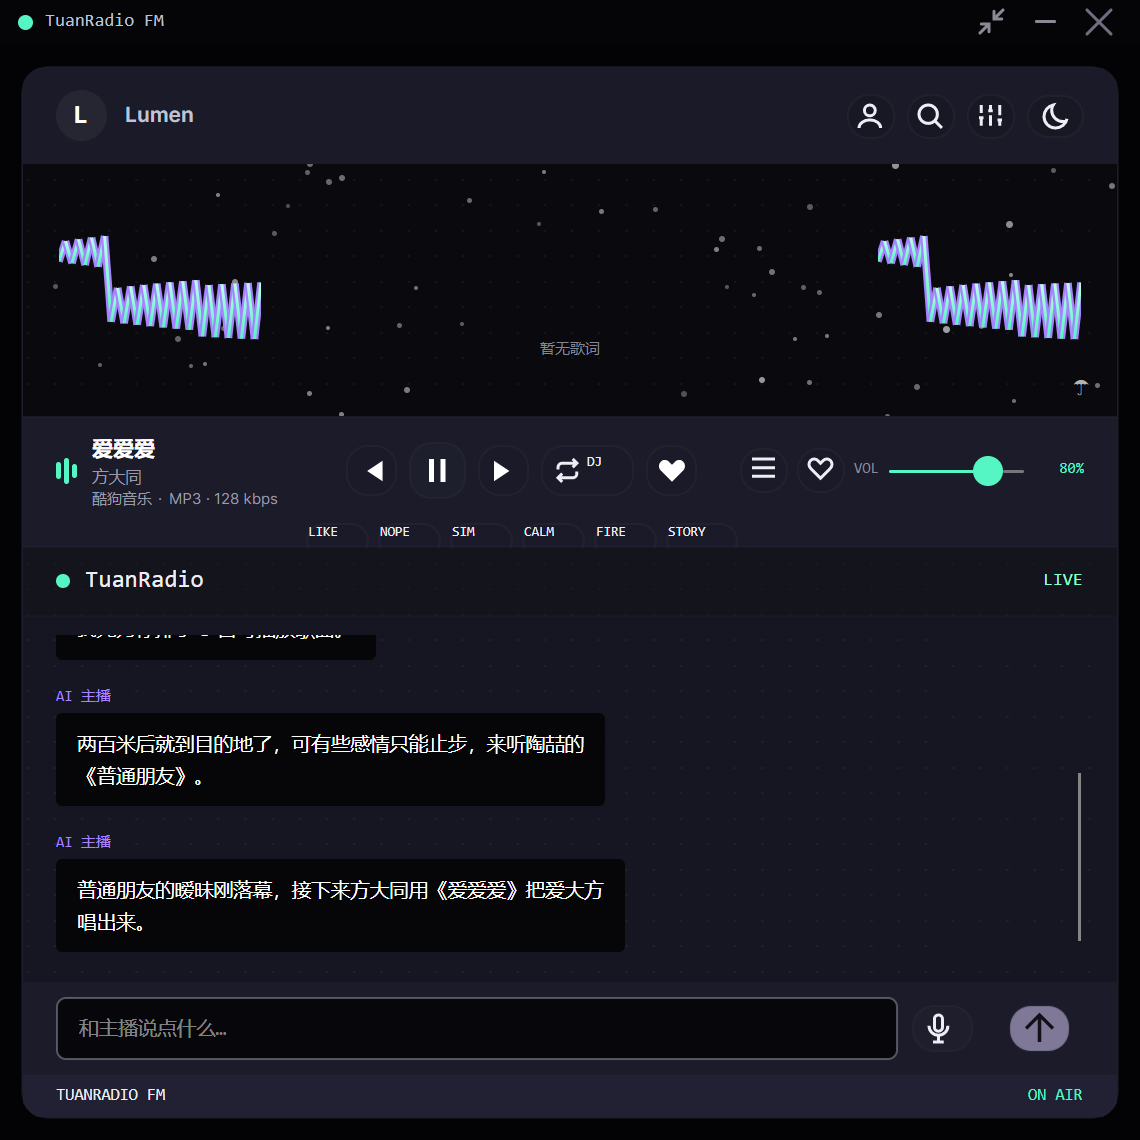
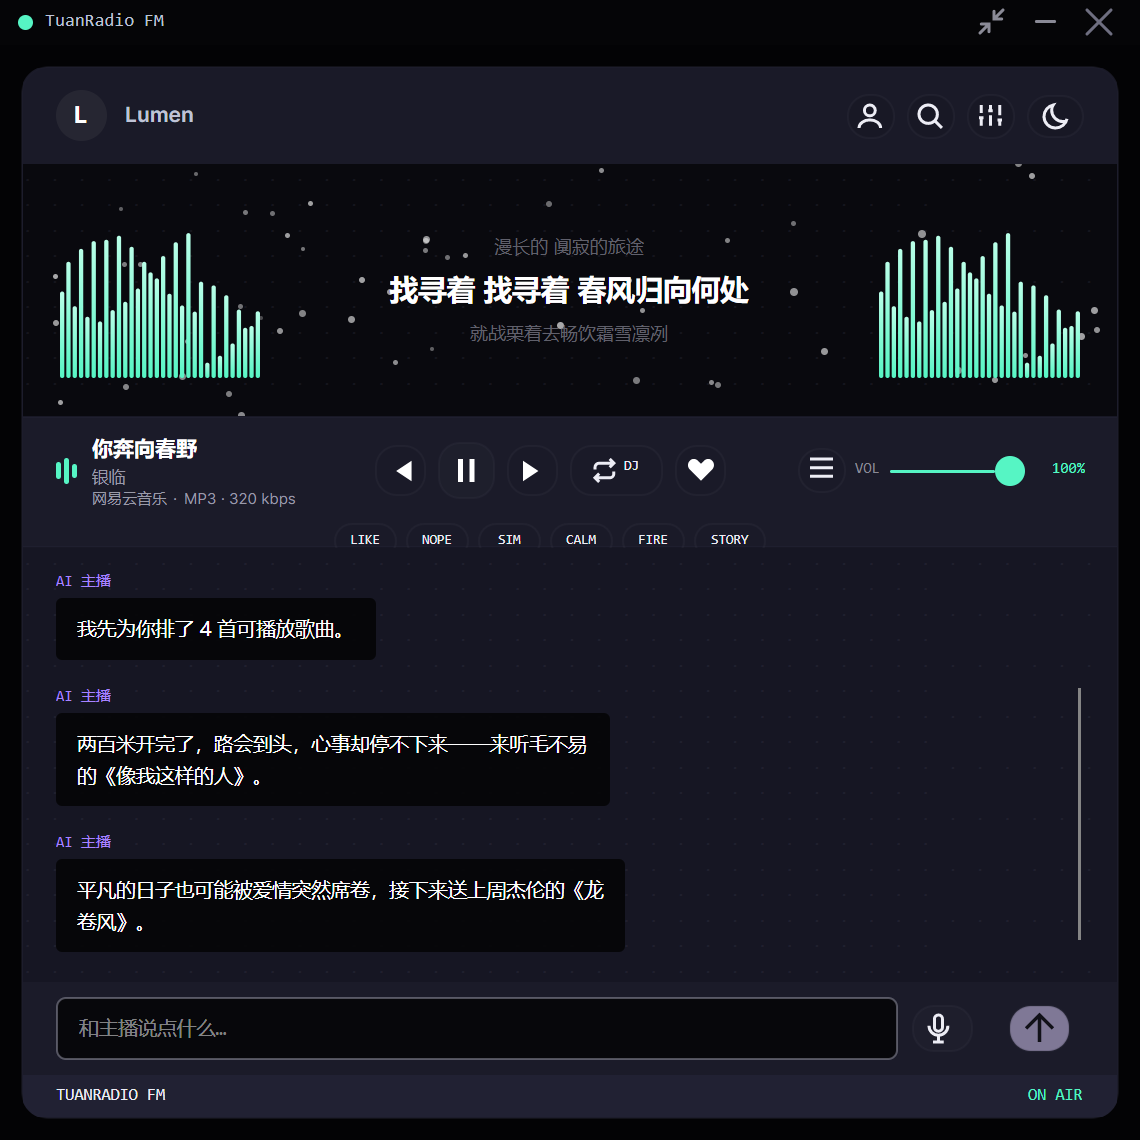
docs:README 补音源登录差异说明并重制主界面截图
主界面截图原为锁屏状态下误拍的桌面壁纸；按当前工作区 UI
重拍主界面/歌词/简洁模式三张，并写入酷狗必登录、网易匿名
可用等登录差异，界面导览同步到辉光呼吸与迷你频谱现状。

diff --git a/README.md b/README.md
@@ -8,7 +8,7 @@ TuanRadio 是一个 Windows 桌面 AI 电台播放器：复古电台界面、AI 
 | --- | --- |
 | ![时钟舞台](docs/screenshots/main-stage.png) | ![歌词模式](docs/screenshots/main-lyrics.png) |
 
-*左：中央时钟 + 两侧实时频谱，DJ 播报时主播徽章弹跳点亮；右：点击中栏在时钟与歌词间切换，逐行同步滚动，两侧频谱常驻。*
+*左：中央时钟 + 两侧实时频谱，DJ 播报时主播徽章辉光随播报音量呼吸；右：点击中栏在时钟与歌词间切换，逐行同步滚动，两侧频谱常驻。*
 
 | 设置：AI 服务、语言与语音 | 设置：音源账号与音源治理 |
 | --- | --- |
@@ -16,15 +16,15 @@ TuanRadio 是一个 Windows 桌面 AI 电台播放器：复古电台界面、AI 
 
 ![简洁播放模式](docs/screenshots/compact-mode.png)
 
-*简洁播放模式：标题栏一键收缩为两行紧凑卡，行 1 为单行动态歌词、无词时退回曲目信息，可选窗口置顶。*
+*简洁播放模式：标题栏一键收缩为两行紧凑卡，行 1 为单行动态歌词、无词时退回曲目信息，迷你频谱样式与主界面实时同步（点击循环），可选窗口置顶。*
 
 ## 界面导览
 
 主界面从上到下分为四个区域：
 
-- **品牌头**：主播徽章与名称（AI DJ 说话时点亮弹跳）、切换主播、打开搜索、打开设置、切换明暗主题。
+- **品牌头**：主播徽章与名称（AI DJ 说话时徽章辉光随 TTS 真实音量呼吸、主播名点亮）、切换主播、打开搜索、打开设置、切换明暗主题。
 - **时钟舞台**：中央为时钟/歌词面板（点击切换，偏好记忆），两侧频谱条点击循环 4 种样式（柱状/镜像/波形/粒子）；右下角天气指示器悬停显示详情。
-- **播放甲板**：曲目信息与音源·编码·码率徽标（如 `网易云音乐 · MP3 · 320 kbps`，以 LibVLC 实际解析为准）、播放控制与进度、音量、电台模式开关、反馈行（喜欢/不喜欢/再来类似/换安静一点/换热闹一点/歌曲故事 STORY）。
+- **播放甲板**：曲目信息与音源·编码·码率徽标（如 `网易云音乐 · MP3 · 320 kbps`，以 LibVLC 实际解析为准）、播放控制与进度、音量、电台模式开关、收藏当前歌曲、反馈行（喜欢/不喜欢/再来类似/换安静一点/换热闹一点/歌曲故事 STORY）。
 - **聊天区与状态栏**：与 AI DJ 文字对话或按住麦克风语音点歌；状态栏由统一电台状态机驱动（空闲/策划中/搜索中/播报中/播放中/异常）。
 
 设置页按分组组织，覆盖全部可配置项：
@@ -44,7 +44,7 @@ TuanRadio 是一个 Windows 桌面 AI 电台播放器：复古电台界面、AI 
 
 - **AI DJ**：文本或按住麦克风语音点歌（Whisper 本地识别 + LLM 同音纠错）、曲目串场、SongStory 现曲讲述，全部经 Edge TTS 播报；DJ 角色（名称/声音/人设）可切换。
 - **节目单推荐**：Radio Mode 自动续播按收听意图生成节目单；长期收听画像（歌手亲和度 30 天半衰期、Dislike 黑名单、LLM 口味摘要）注入推荐与 DJ 聊天两条链路，强制探索方向防茧房。
-- **多音源搜索与播放**：本地曲库、OpenSubsonic、Audius 开箱即用，完整构建另含网易云、酷狗（扫码登录）与 YouTube；候选经标题/歌手/时长/源优先级四维排重打分，播放 URL 失效或返回试听截断时跨源重匹配自愈。
+- **多音源搜索与播放**：本地曲库、OpenSubsonic、Audius 开箱即用，完整构建另含网易云（免登录可用）、酷狗（登录后可用）与 YouTube；候选经标题/歌手/时长/源优先级四维排重打分，播放 URL 失效或返回试听截断时跨源重匹配自愈。
 - **音质透明**：播放区显示实际编码与码率（如 `MP3 · 320 kbps`），以 LibVLC 解析在播媒体为准、音源声明值兜底；试听流有专门徽标。
 - **歌词模式**：双源取词、按播放进度逐行滚动；时钟与歌词点击切换（偏好记忆），频谱样式点击循环，两图层共显互不打扰。
 - **复古电台氛围**：纯程序化合成的 FM 调谐音效与台呼（零外部音频资产）、真实 FFT 频谱（WASAPI 回环采集）驱动频谱与星空、Light/Dark 双主题经 WCAG 对比度审计。
@@ -83,7 +83,7 @@ dotnet build AIRadio.Desktop\AIRadio.Desktop.csproj -p:TuanRadioEnableNodeProvid
 ### 首次配置要点
 
 - **LLM**：设置页「AI 服务」选择 OpenAI 兼容 / Anthropic 兼容 / 本地模型三种接口格式之一，填 API Key、Base URL 与模型名，支持连接测试与失败原因提示。
-- **音源**：本地曲库（文件夹索引可搜索）与 Audius（无 Key 可用）默认可用；OpenSubsonic 在设置页配置服务器与账号，凭据存入系统安全存储，可选自动/原始/128 kbps 省流量音质；网易云、酷狗需完整构建，酷狗支持扫码登录，风控触发时自动弹出浏览器滑块验证（约 10 分钟冷却，设置页另有手动验证入口）。
+- **音源**：本地曲库（文件夹索引可搜索）与 Audius（无 Key 可用）默认可用；OpenSubsonic 在设置页配置服务器与账号，凭据存入系统安全存储，可选自动/原始/128 kbps 省流量音质；网易云、酷狗需完整构建。两家登录要求不同：**酷狗必须扫码登录后才能播放**，官方 App 每日看广告领到的会员在这里同样有效；**网易云不登录即可用**——匿名身份可完整播放免费曲库，免费账号登录与匿名基本相同（VIP 歌仅返回试听片段，应用检测到试听会自动跨源换完整版），黑胶 VIP 登录后可直接取得 VIP 歌完整播放地址。酷狗风控触发时自动弹出浏览器滑块验证（约 10 分钟冷却，设置页另有手动验证入口）。
 - **数据位置**：设置、歌单、收听画像、本地曲库索引与日志均在 `%APPDATA%\AIRadio\`（日志在 `logs\airadio-*.log`，播放中断、音源超时优先从这里排查）。
 
 ## 项目结构
